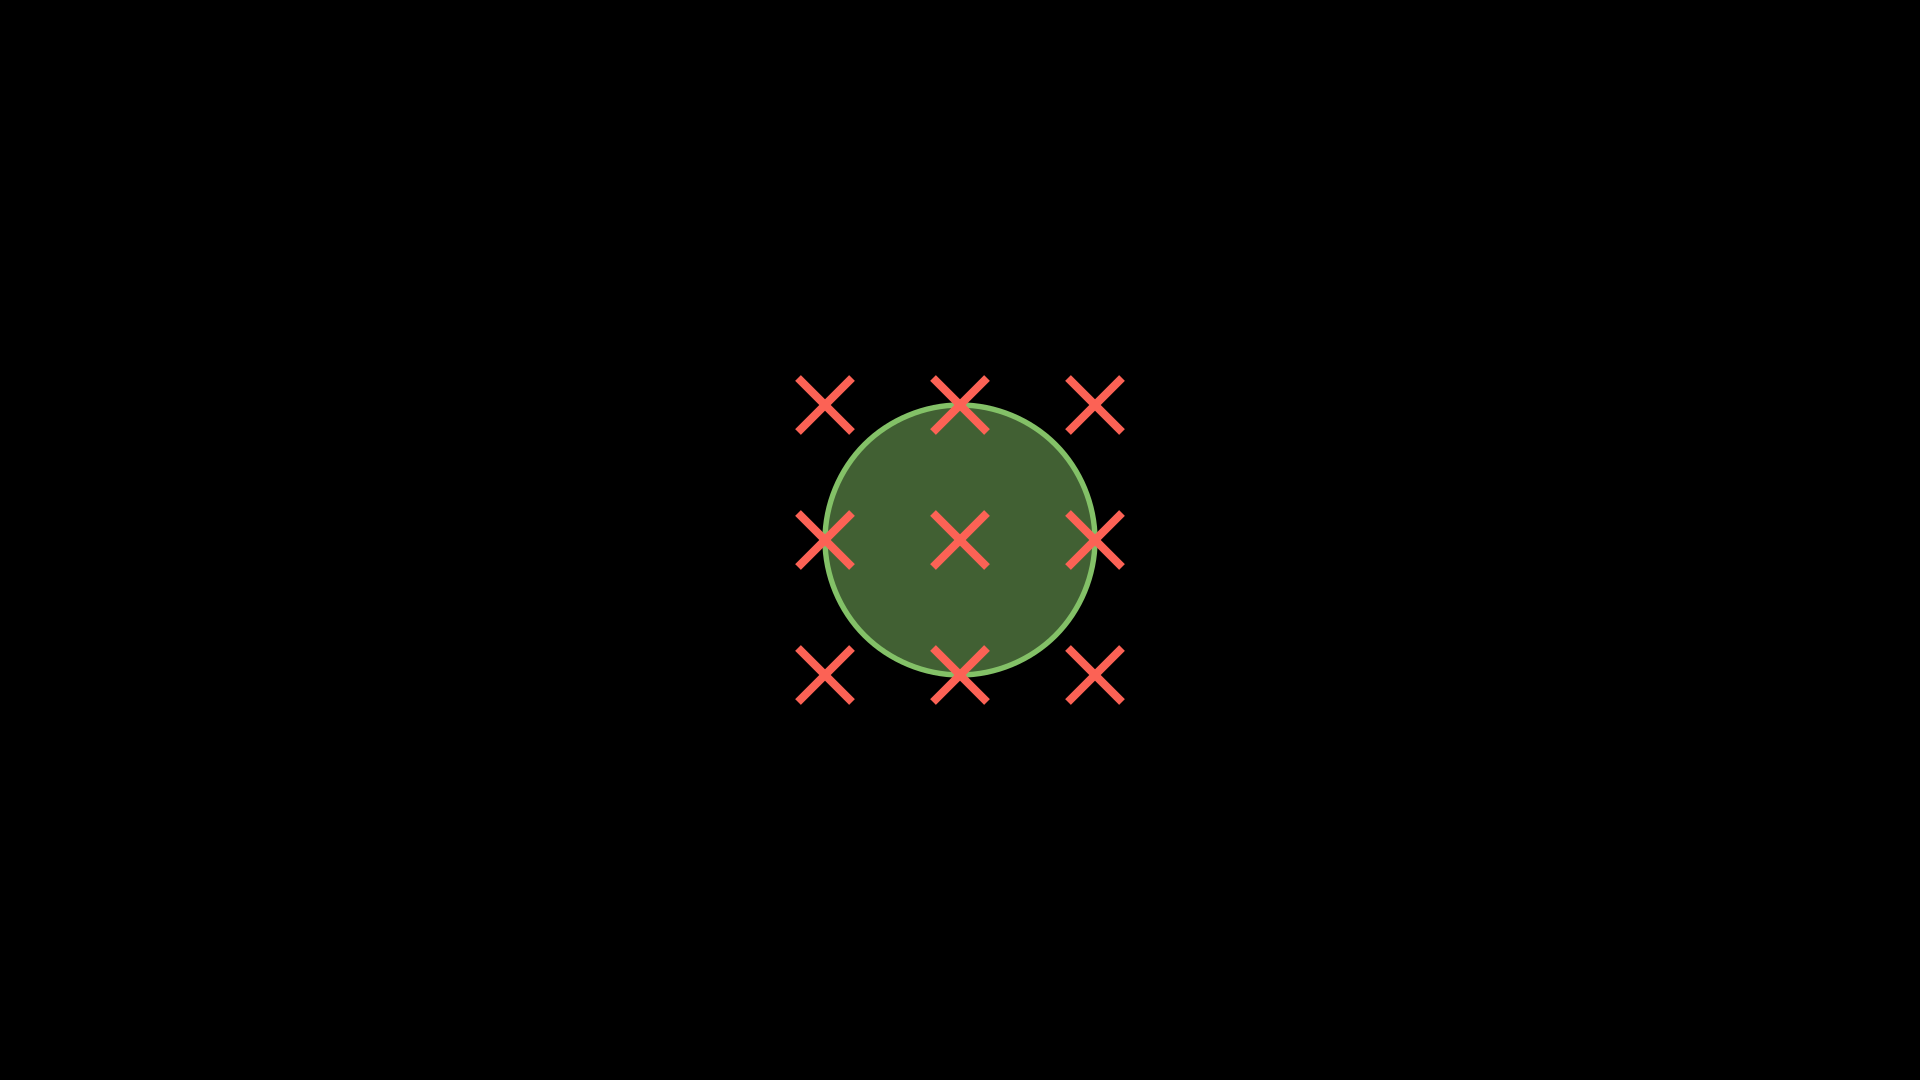
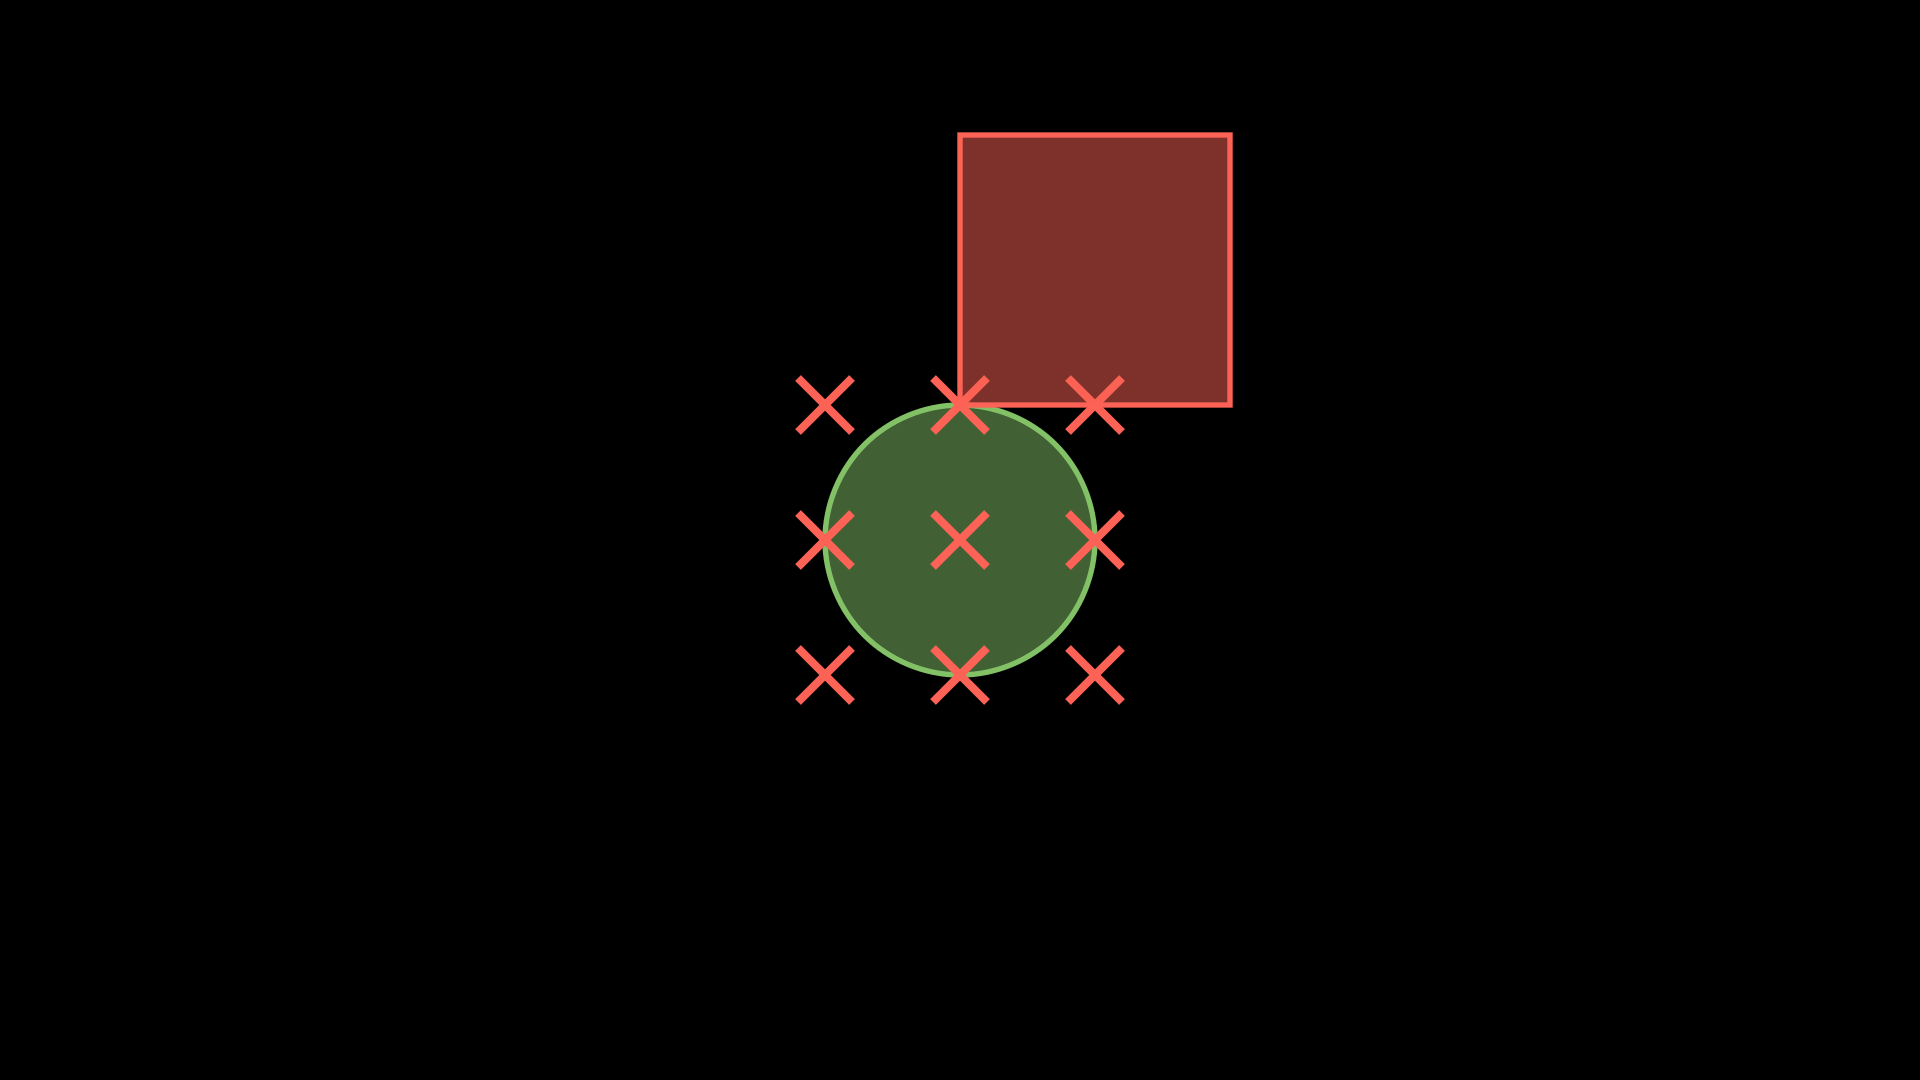
Positioning expanded
Adding for loops inside vgroups

Changed region(s): [[0.5, 0.1222, 0.6562, 0.3972]]

diff --git a/project/positioning.py b/project/positioning.py
@@ -1,4 +1,5 @@
 from manim import *
+from manim.utils.unit import Percent, Pixels
 
 class Positioning(Scene):
     def construct(self):
@@ -38,3 +39,33 @@ class CriticalPoints(Scene):
 
         for d in [(0,0,0), UP, UR, RIGHT, DR, DOWN, DL ,LEFT, UL]:
             self.add(Cross(scale_factor=0.2).move_to(c.get_critical_point(d)))
+        
+        sq = Square(color=RED, fill_opacity=0.5)
+        sq.move_to([1,1,0], aligned_edge=DOWN)
+        self.add(sq)
+
+class UsefulUnits(Scene):
+    def construct(self):
+        for perc in range(5, 51, 5):
+            self.add(Circle(radius=perc*Percent(X_AXIS)))
+            self.add(Square(side_length=2*perc*Percent(X_AXIS), color=YELLOW))
+        
+        dot = Dot().shift(100*Pixels*RIGHT)
+        self.add(dot)
+
+class Grouping(Scene):
+    def construct(self):
+        dot_red = Dot(color=RED)
+        dot_green = Dot(color=GREEN).next_to(dot_red, RIGHT)
+        dot_blue = Dot(color=BLUE).next_to(dot_red, UP)
+        dot_group = VGroup(dot_red, dot_green, dot_blue)
+        dot_group.to_edge(RIGHT)
+        self.add(dot_group)
+
+        circles = VGroup(*[Circle(radius=0.2) for _ in range(10)])
+        circles.arrange(UP, buff=0.5)
+        self.add(circles)
+
+        stars = VGroup(*[Star(color=YELLOW, fill_opacity=0.9).scale(0.5) for _ in range(20)])
+        stars.arrange_in_grid(4, 5, buff=0.2)
+        self.add(stars)
